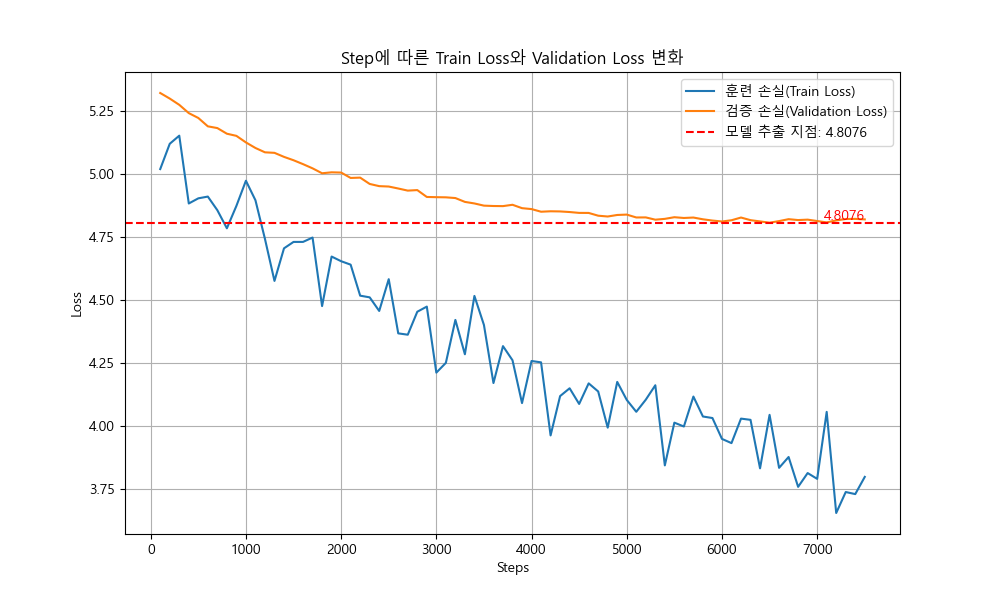
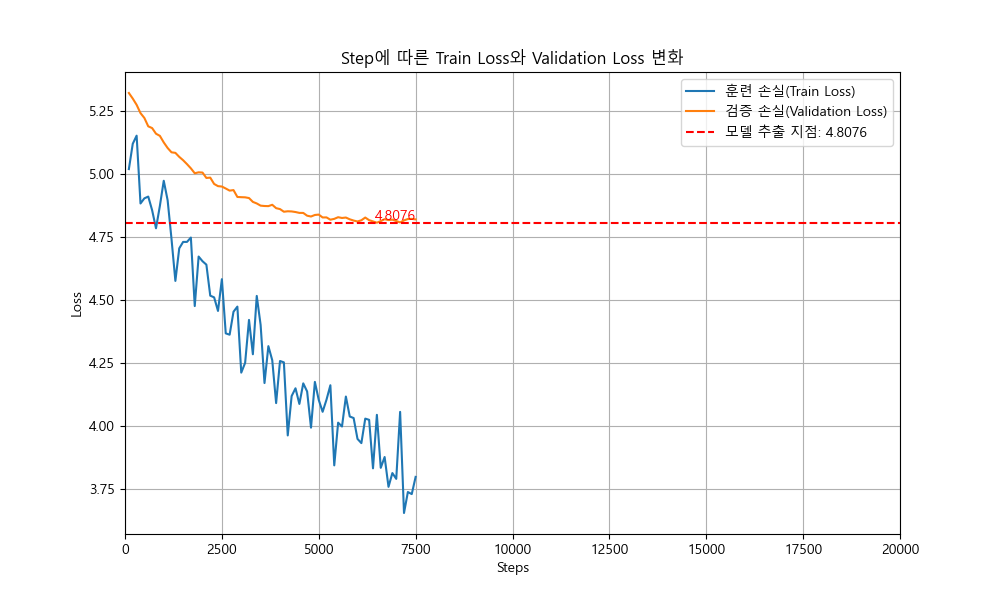
하이퍼파라미터 13차 조절 및 plotter.py 개선

diff --git a/confidenceHead/plotter.py b/confidenceHead/plotter.py
@@ -35,6 +35,14 @@ class LossPlotter:
         min_val_loss = min(val_losses)
         plt.axhline(y=min_val_loss, color='r', linestyle='--', label=f'모델 추출 지점: {min_val_loss:.4f}')
         plt.text(steps[-1], min_val_loss, f'{min_val_loss:.4f}', color='r', va='bottom', ha='right')
+
+        # X축의 최소 길이를 20,000으로 설정하여 그래프 비교를 용이하게 함
+        min_x_limit = 20000
+        if steps[-1] < min_x_limit:
+            plt.xlim(left=0, right=min_x_limit)
+        # Y축의 범위를 0부터 8까지로 고정
+        plt.ylim(bottom=0, top=8)
+
         plt.xlabel("Steps")
         plt.ylabel("Loss")
         plt.title("Step에 따른 Train Loss와 Validation Loss 변화")

diff --git a/confidenceHead/config.py b/confidenceHead/config.py
@@ -34,7 +34,7 @@ PATIENCE = 10
 N_EMBD = 256             # 임베딩 차원의 크기
 N_HEAD = 8               # 사용할 어텐션 헤드의 개수
 N_LAYER = 6              # 쌓을 트랜스포머 블록의 개수
-DROPOUT = 0.2            # 드롭아웃 비율
+DROPOUT = 0.25            # 드롭아웃 비율
 
 # 그냥 변수들
 MAX_TOKEN=100
